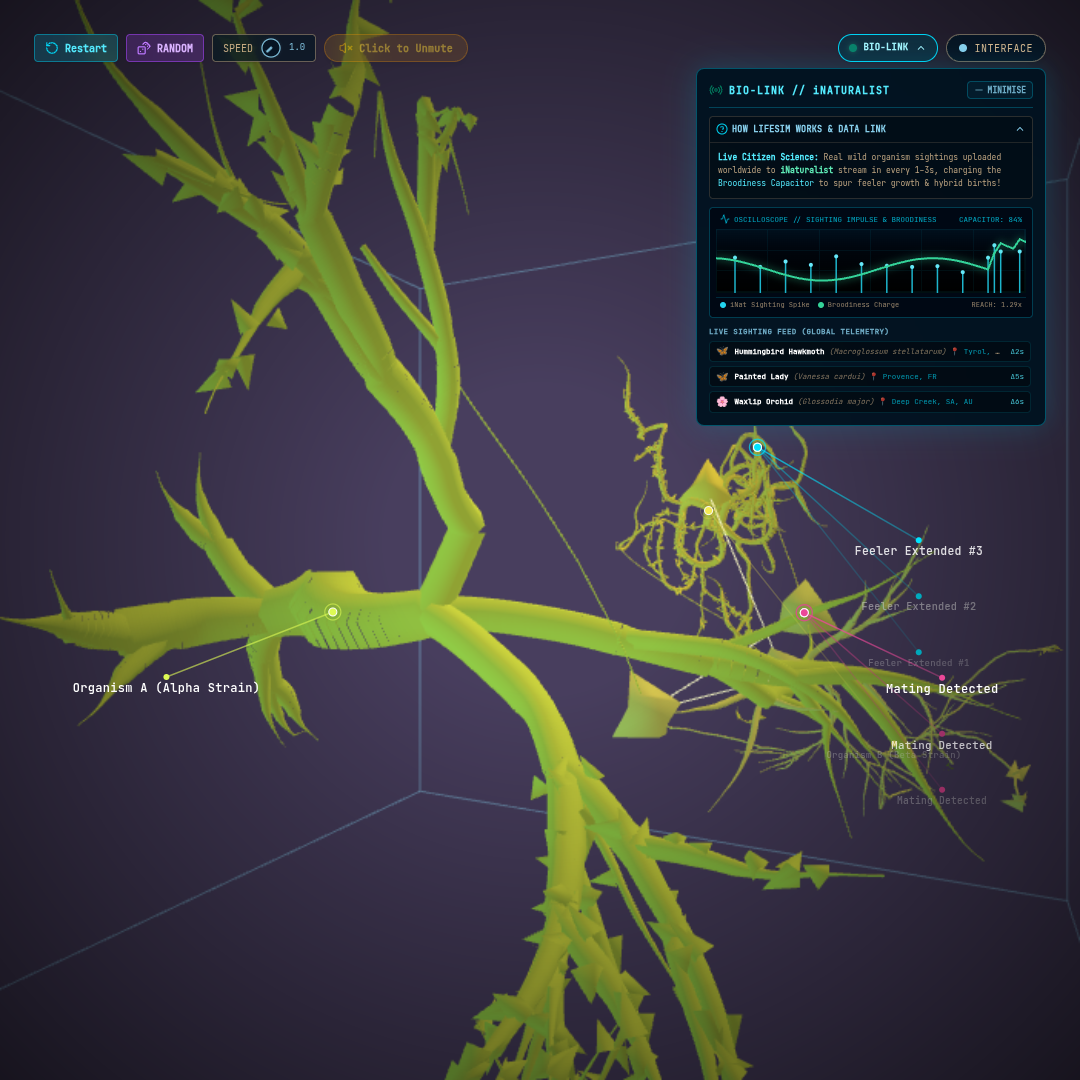
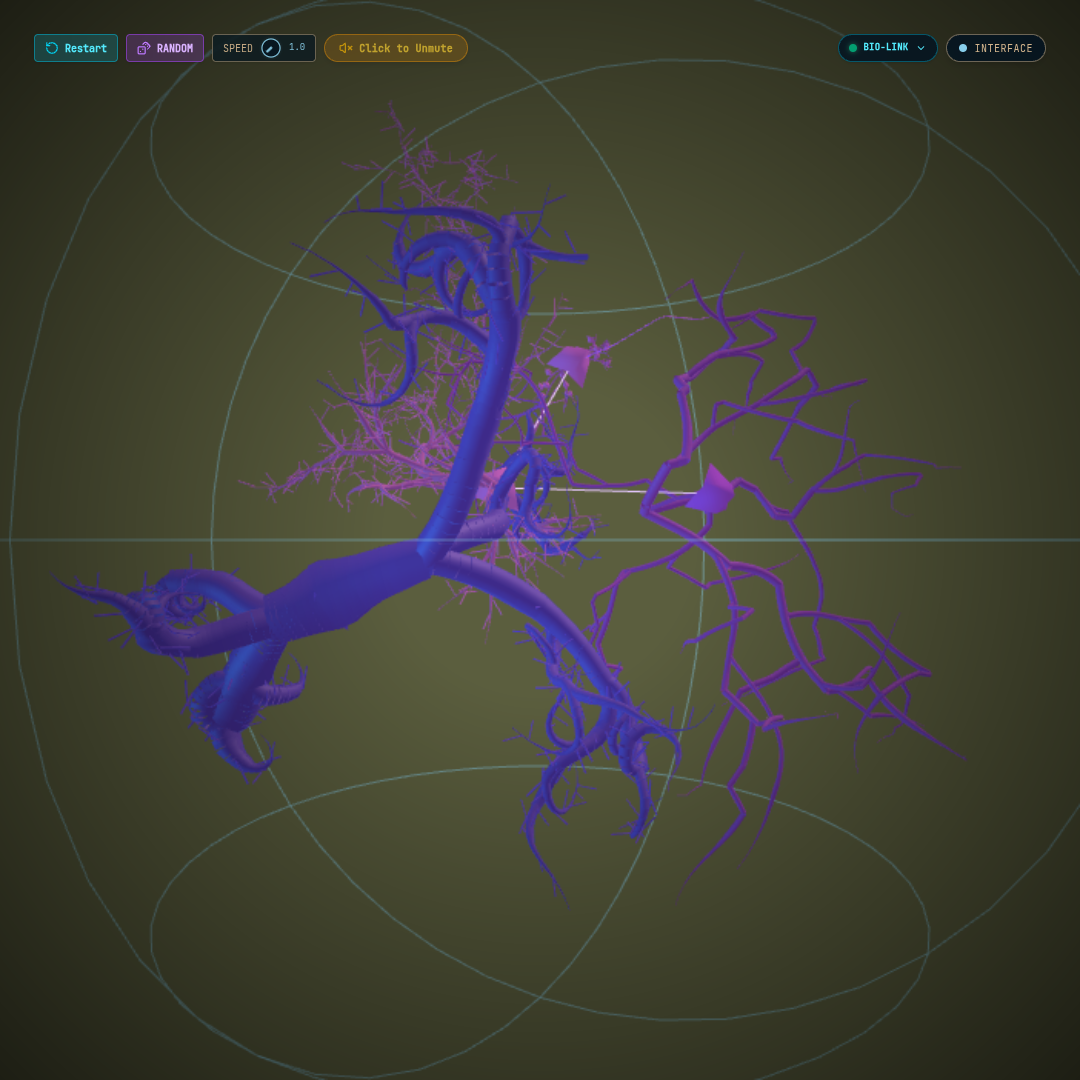
feat(hud): minimise BioLink panel by default on startup (post-015633)

diff --git a/src/components/HUDTopBar.tsx b/src/components/HUDTopBar.tsx
@@ -55,9 +55,7 @@ export function HUDTopBar({
   const [themePanelOpen, setThemePanelOpen] = useState(false);
   const [soundPanelOpen, setSoundPanelOpen] = useState(false);
   const [presetPanelOpen, setPresetPanelOpen] = useState(false);
-  const [inatPanelOpen, setInatPanelOpen] = useState(() =>
-    typeof window !== "undefined" ? window.innerWidth >= 768 : true
-  );
+  const [inatPanelOpen, setInatPanelOpen] = useState(false);
 
   useEffect(() => {
     if (!showHUD) {
